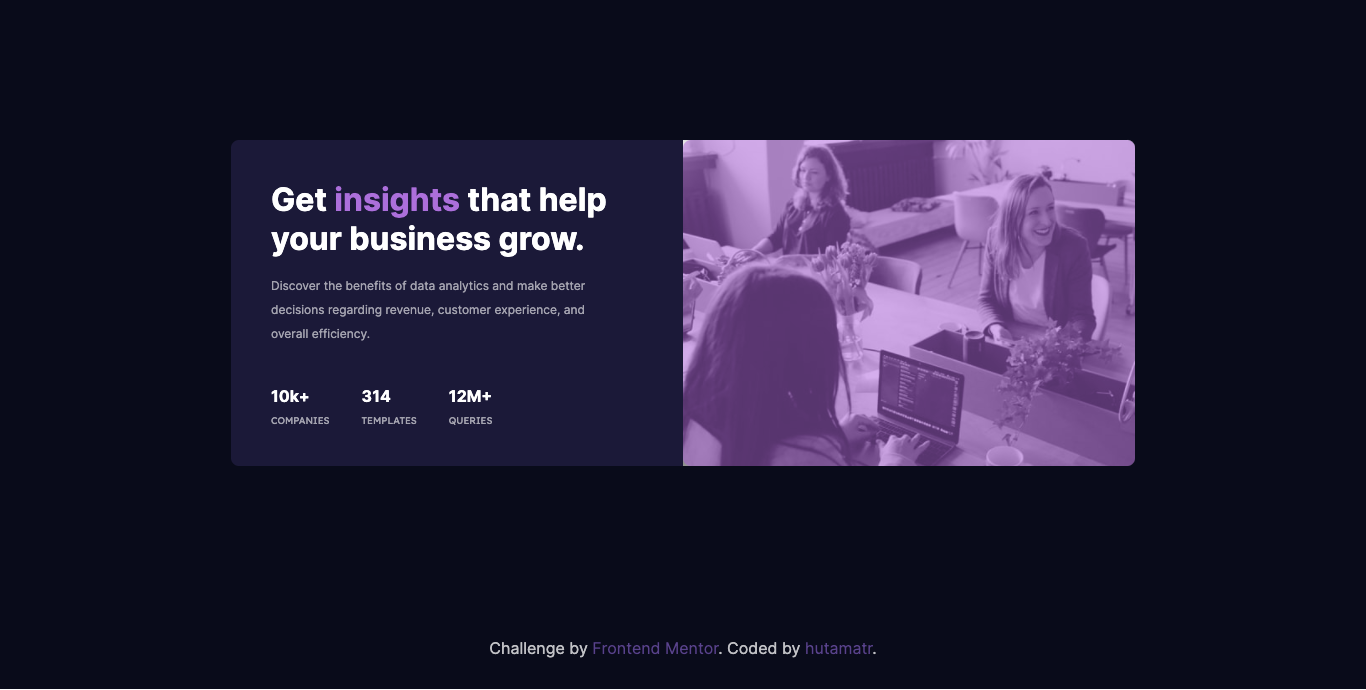
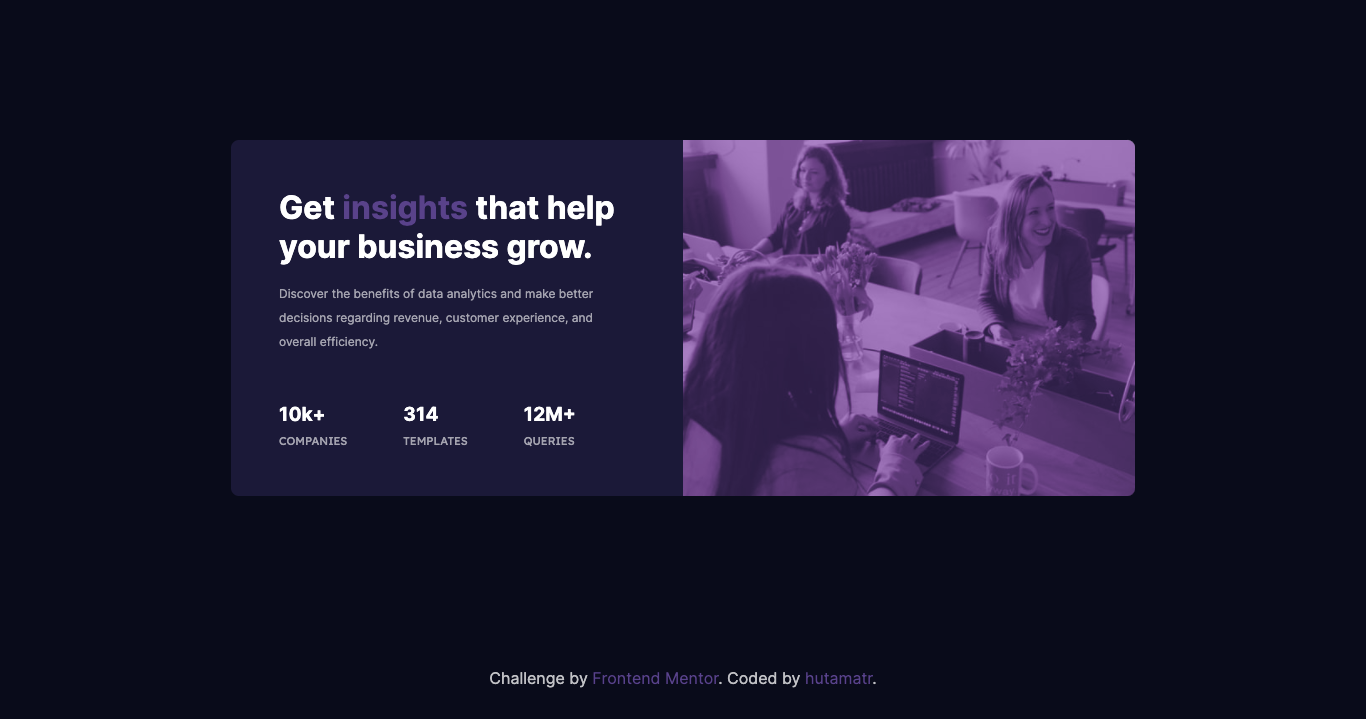
Changes some scss & screenshot

diff --git a/css/styles.css b/css/styles.css
@@ -95,8 +95,8 @@ img {
   opacity: 0.5;
   -webkit-transition: 0.5s ease;
   transition: 0.5s ease;
-  background-color: #aa5cdb;
-  border-radius: 0.5rem;
+  background-color: #55008a;
+  border-radius: 0.5rem 0.5rem 0 0;
 }
 .stats__data {
   padding: 2rem;
@@ -108,7 +108,7 @@ img {
   font-weight: 600;
 }
 .stats__data--title {
-  color: #aa5cdb;
+  color: #55008a;
 }
 .stats__data--description {
   font-size: 1rem;
@@ -170,9 +170,12 @@ img {
   .stats__image--img {
     display: none;
   }
+  .stats__image--filter {
+    border-radius: 0 0.5rem 0.5rem 0;
+  }
   .stats__data {
     grid-area: content-1;
-    padding: 2.5rem 4rem 2.5rem 2.5rem;
+    padding: 3rem 4.2rem 3rem 3rem;
     text-align: left;
   }
   .stats__data--description {
@@ -184,16 +187,16 @@ img {
     -webkit-box-direction: normal;
         -ms-flex-direction: row;
             flex-direction: row;
-    -webkit-column-gap: 2rem;
-       -moz-column-gap: 2rem;
-            column-gap: 2rem;
-    padding: 0 2.5rem 2.5rem;
+    -webkit-column-gap: 3.5rem;
+       -moz-column-gap: 3.5rem;
+            column-gap: 3.5rem;
+    padding: 0 4rem 3rem 3rem;
   }
   .stats__results--number {
-    font-size: 1rem;
+    font-size: 1.2rem;
   }
   .stats__results--desc {
-    font-size: 0.6rem;
+    font-size: 0.7rem;
   }
   .stats__results--1, .stats__results--2, .stats__results--3 {
     -webkit-box-align: start;

diff --git a/scss/_responsive.scss b/scss/_responsive.scss
@@ -21,11 +21,15 @@
       &--img {
         display: none;
       }
+
+      &--filter {
+        border-radius: 0 0.5rem 0.5rem 0;
+      }
     }
 
     &__data {
       grid-area: content-1;
-      padding: 2.5rem 4rem 2.5rem 2.5rem;
+      padding: 3rem 4.2rem 3rem 3rem;
       text-align: left;
 
       &--description {
@@ -36,15 +40,15 @@
     &__results {
       grid-area: content-2;
       flex-direction: row;
-      column-gap: $mb-2;
-      padding: 0 2.5rem 2.5rem;
+      column-gap: 3.5rem;
+      padding: 0 4rem 3rem 3rem;
 
       &--number {
-        font-size: $small-font-size;
+        font-size: 1.2rem;
       }
 
       &--desc {
-        font-size: 0.6rem;
+        font-size: 0.7rem;
       }
 
       &--1,

diff --git a/scss/_variable.scss b/scss/_variable.scss
@@ -9,7 +9,7 @@ $stat-headings: hsla(0, 0%, 100%, 0.6);
 
 $main-background: hsl(233, 47%, 7%);
 $card-background: hsl(244, 38%, 16%);
-$accent: hsl(277, 64%, 61%);
+$accent: hsl(277, 100%, 27%);
 
 /*========== Font and typography ==========*/
 $body-font: 'Inter', sans-serif;

diff --git a/scss/_body.scss b/scss/_body.scss
@@ -27,7 +27,7 @@
       opacity: 0.5;
       transition: 0.5s ease;
       background-color: $accent;
-      border-radius: 0.5rem;
+      border-radius: 0.5rem 0.5rem 0 0;
     }
   }
 
